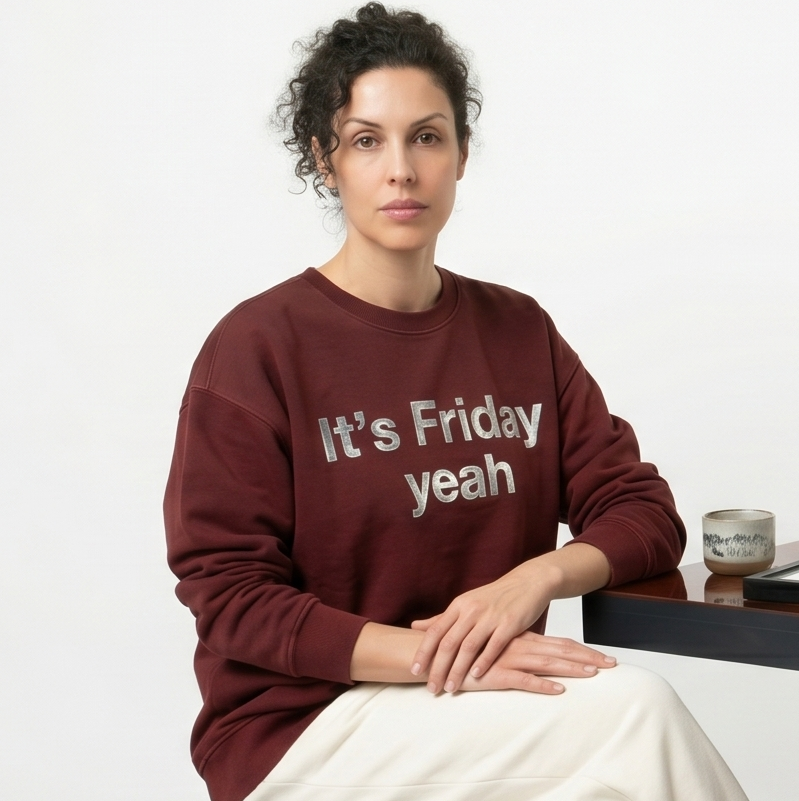
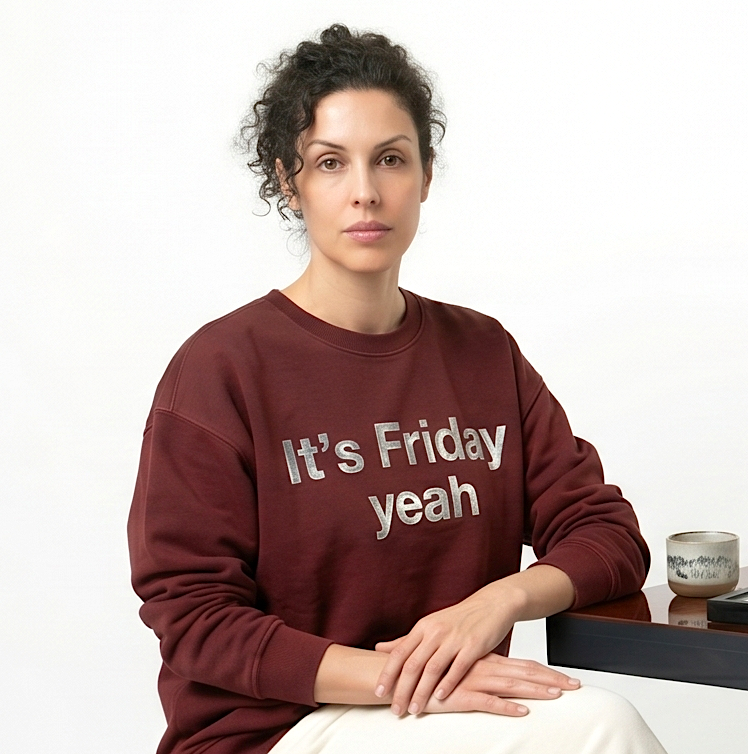
Update sweater-red-ausschnitt shop image asset.

diff --git a/kaufen/sweater.html b/kaufen/sweater.html
@@ -48,7 +48,7 @@
                 <img src="../assets/biigJ/Sweater.png" alt="Friday Circle Sweater — Chocolate Braun" width="699" height="711" decoding="async" />
               </div>
               <div class="kaufen-tile__slide" data-color="red">
-                <img src="../assets/biigJ/sweater-red-ausschnitt.png" alt="Friday Circle Sweater — Dunkelrot" width="799" height="801" decoding="async" />
+                <img src="../assets/biigJ/sweater-red-ausschnitt.png?v=2" alt="Friday Circle Sweater — Dunkelrot" width="748" height="754" decoding="async" />
               </div>
             </div>
             <button type="button" class="kaufen-tile__nav kaufen-tile__nav--prev" id="kaufen-sweater-prev" aria-label="Vorheriges Bild">‹</button>
